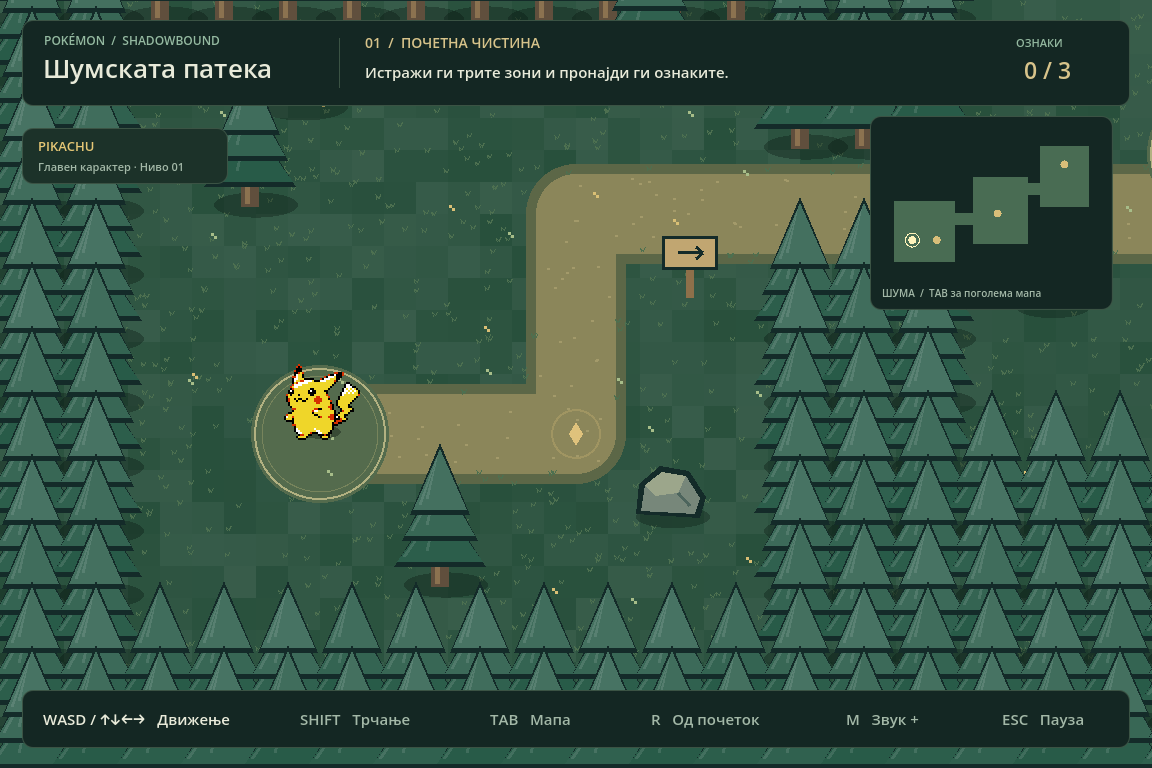
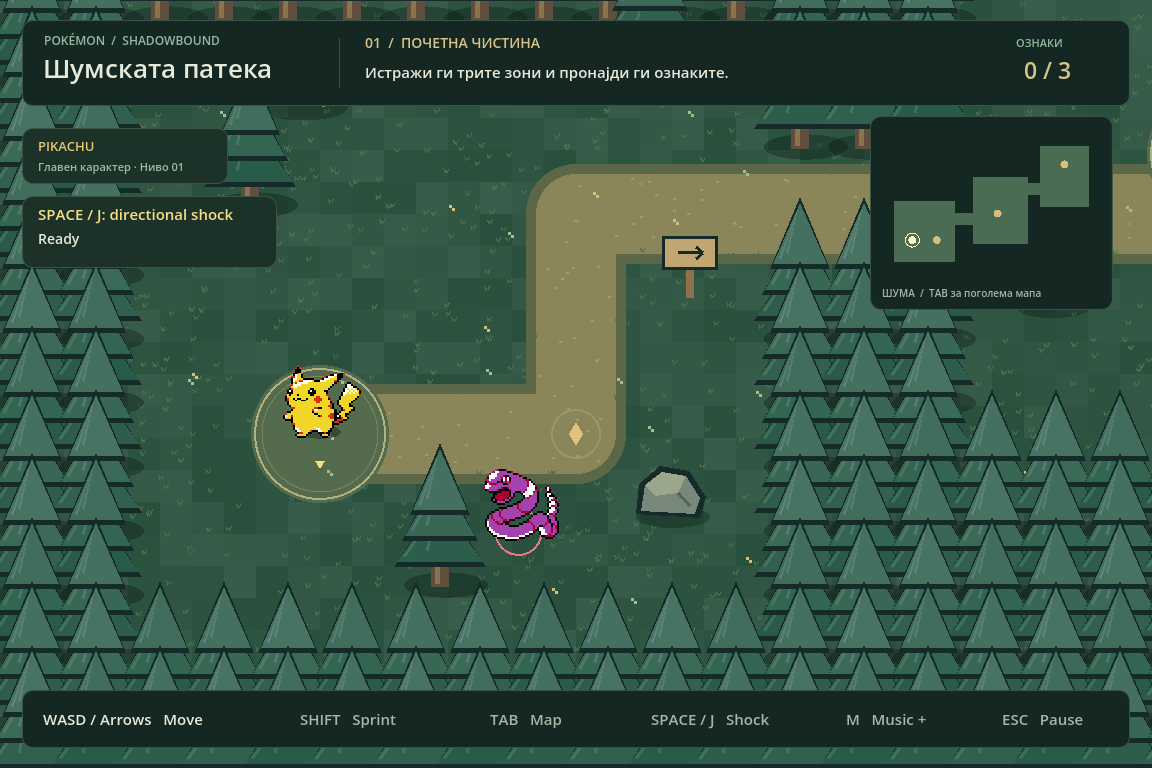
Add patrol enemies, directional shock combat and automatic level restart

diff --git a/README.md b/README.md
@@ -5,11 +5,32 @@
 Download this branch as a ZIP from **Code → Download ZIP**, extract it, import
 `project.godot` in Godot 4.6.x Standard, and press **F5**. No Python, .NET,
 plugins, or runtime downloads are required. Move with WASD/arrows, sprint with
-Shift, hold Tab for the map, and use Esc to pause.
+Shift, hold Tab for the map, use Esc to pause, and Space/J for a directional shock.
 
-GitHub Actions imports the project and runs the 19 physics and route checks on
+GitHub Actions imports the project and runs all 51 physics, route, combat, camera, and restart checks on
 pushes and pull requests. Generated `.godot` caches and exported ZIPs are excluded
 from Git. See [asset credits](ASSET_CREDITS.md) for the supplied materials.
+
+
+## Lab upgrade: camera, animation, enemies, and restart
+
+- **Camera:** smooth Camera2D following, clamped to the 2304 × 1536 level. The camera never reveals space beyond the forest, including at the world corners.
+- **Player animation:** procedural idle breathing, walking/running bounce and squash, left/right flipping, upward facing tint, and a four-direction facing indicator. Shock attacks have animated lightning and a distinct pose; death rotates and fades Pikachu.
+- **Enemies:** three purple Ekans patrol independently in the clearing, forest passage, and sanctuary. Each is a reusable `scenes/enemy.tscn` CharacterBody2D with world collisions and a separate Area2D for contact detection. Defeated enemies spin and fade away.
+- **Life and restart:** unprotected enemy contact makes Pikachu faint. Movement and attacks stop; after one second the entire scene reloads. Player position, collected markers, enemies, patrol positions, cooldowns, and pause state reset. **R** also performs a complete restart.
+- **Bonus combat:** face an enemy and press **Space** or **J** to use an electric shock. It reaches 96 pixels in a forward cone, stays active for 0.28 seconds, and has a 0.65-second cooldown. A successful shock defeats the enemy before contact damage is resolved. Approaching from behind or attacking while recharging remains dangerous. Pause freezes enemy patrols and combat timers.
+
+No extra assets, plugins, or runtime downloads are needed. Open `project.godot` with **Godot 4.6.3 Standard** and press **F5**.
+
+Run both suites after importing assets:
+
+```sh
+godot --headless --editor --import --quit
+godot --headless --script tests/test_forest.gd --fixed-fps 60
+godot --headless --script tests/test_combat.gd --fixed-fps 60
+```
+
+The original suite has 19 checks; the new suite has 32 checks covering enemy movement, world collisions, pause, directional animations, attack range/cooldown/defeat, camera bounds, contact death, and actual automatic/manual scene reloads.
 
 Готово top-down ниво за лабораториска вежба во **Godot 2D**, изработено со
 материјалите од приложениот Python/Pygame проект. Ова е самостоен Godot проект
